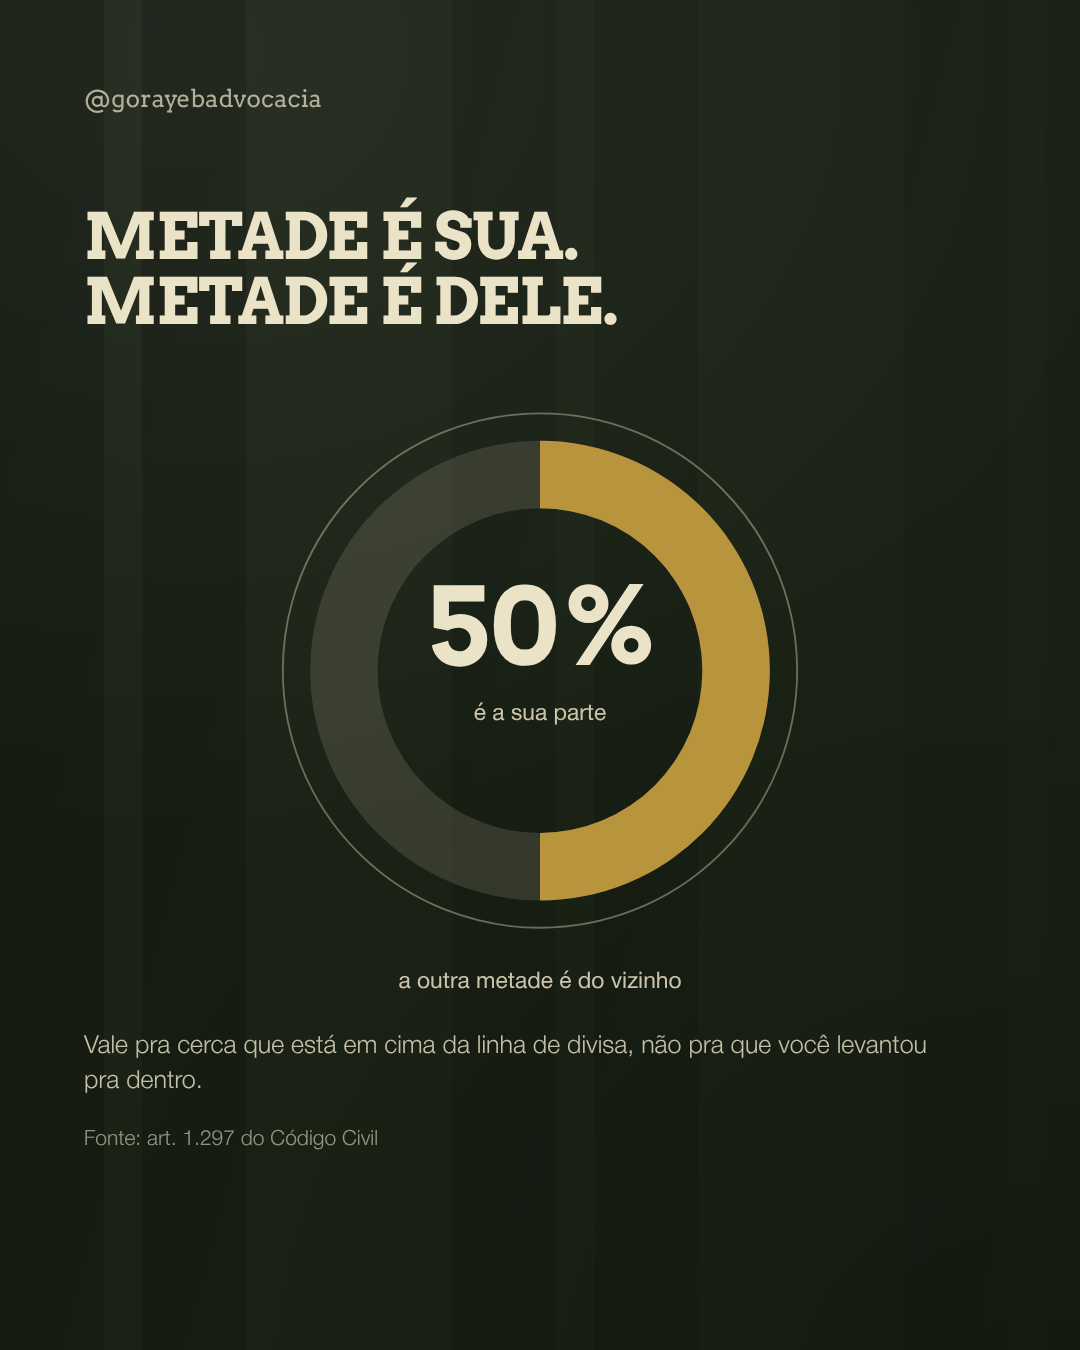
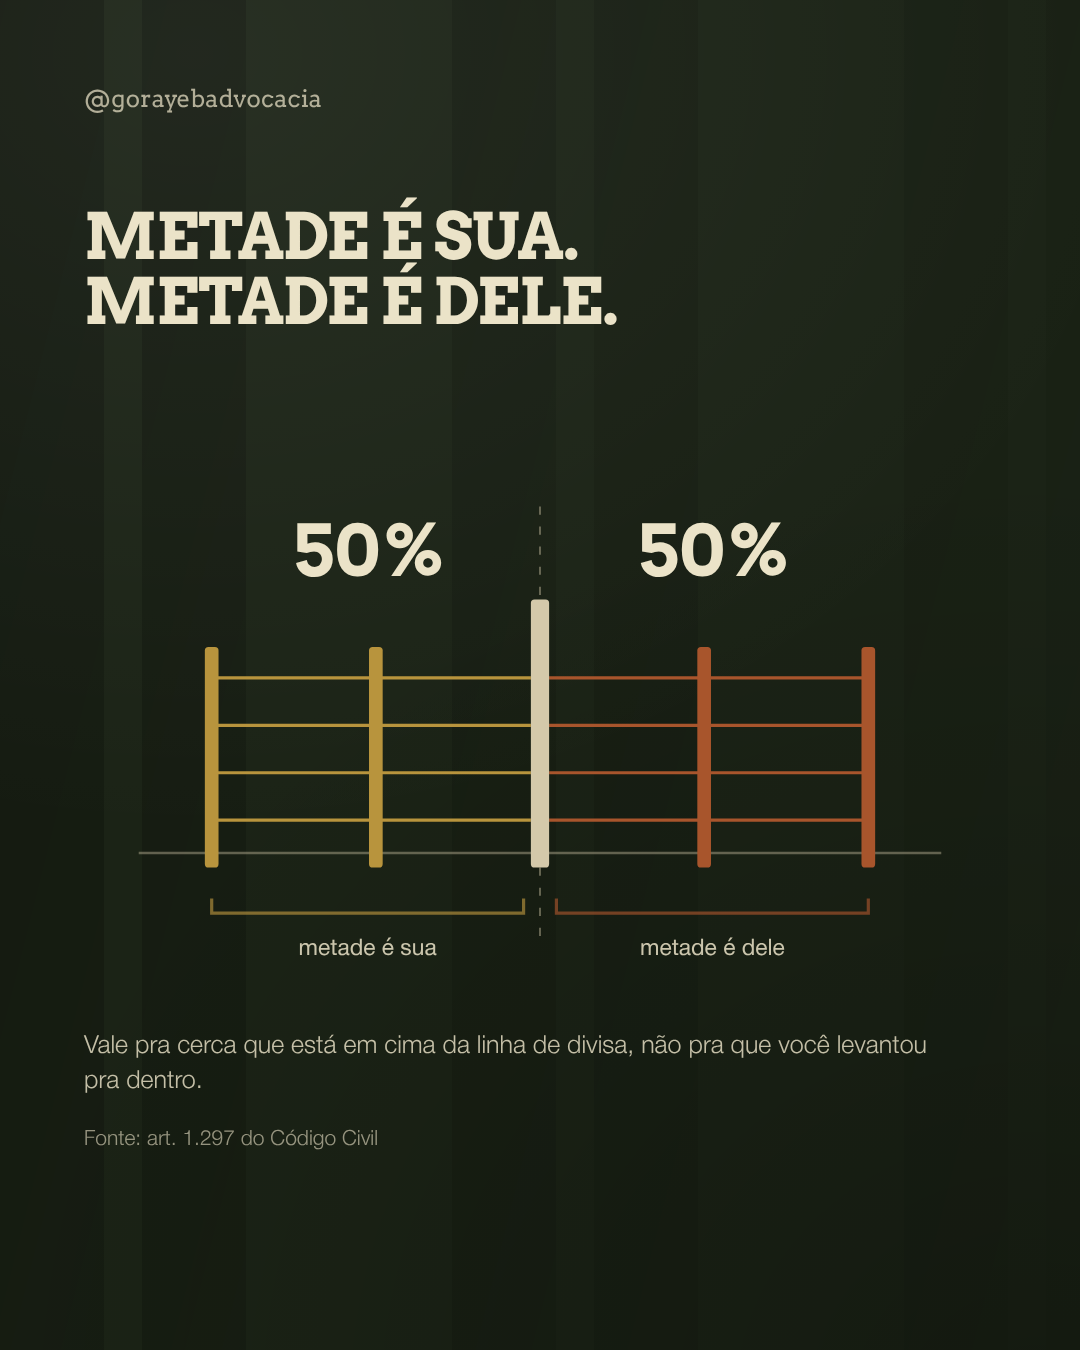
Gorayeb: formato 01 e carrossel do Dia do Pecuarista
Fecha a revisão do carrossel da cerca divisória e transforma as decisões
dela no formato padrão.

- formato-01.md: o padrão de conteúdo. Logo só na capa e no último slide,
  assinatura "Do agro, pelo agro." fora de tudo (arte e legenda), tudo
  alinhado à esquerda, capa no grid de quatro faixas, figura obrigatória,
  número sem fonte não entra e data que diverge entre fontes fica de fora.
- figuras.mjs: nova figura `cerca`, uma cerca de arame cortada ao meio pelo
  marco da divisa, no lugar do donut quando a pauta tem a coisa concreta.
  O rótulo dos pontos do mapa virou legenda embaixo, que dentro do desenho
  estourava a margem da peça.
- render.mjs: o @gorayebadvocacia passa a abrir a capa, no topo esquerdo, e
  as fotos de `meiaFoto` e `corpo-foto` aceitam `foco` pra não cortar rosto.
- base.css: rótulos de figura escurecem em fundo off-white e branco.
- Novo carrossel: Dia do Pecuarista, recorte nacional, com o Herd Book de
  1919 em Uberaba, os nomes que a ABCZ reconhece, o mapa do rebanho pelo
  IBGE e a exportação pela ABIEC.

Claude-Session: https://claude.ai/code/session_01PNm9HeejNLCDTQ5J6fF2k9

Changed region(s): [[0.2444, 0.3111, 0.7639, 0.7467], [0.7944, 0.4667, 0.825, 0.6533], [0.1833, 0.4667, 0.2139, 0.6533]]

diff --git a/docs/gorayeb/template/base.css b/docs/gorayeb/template/base.css
@@ -244,8 +244,10 @@
   font-family: "HelveticaNeue", Helvetica, Arial, sans-serif; font-weight: 400;
   fill: var(--creme); font-size: 25px; opacity: .85;
 }
-.bg-creme .rot-num, .bg-areia .rot-num { fill: var(--verde); }
-.bg-creme .rot-txt, .bg-areia .rot-txt { fill: var(--verde); }
+.bg-creme .rot-num, .bg-areia .rot-num,
+.bg-offwhite .rot-num, .bg-branco .rot-num { fill: var(--verde); }
+.bg-creme .rot-txt, .bg-areia .rot-txt,
+.bg-offwhite .rot-txt, .bg-branco .rot-txt { fill: var(--verde); }
 
 /* barras: marca fina, ponta arredondada só do lado do dado */
 .barra-trilho { fill: var(--dado-base); }
@@ -256,13 +258,24 @@
 .mapa-base { fill: var(--dado-base); stroke: var(--fio-fino); stroke-width: 1.5; }
 .mapa-destaque { fill: var(--dado-1); }
 .mapa-anel { fill: none; stroke: var(--fio-fino); stroke-width: 2; }
+/* legenda dos pontos do mapa, uma linha por destaque */
+.mapa-chaves { list-style: none; display: flex; flex-direction: column; gap: 16px; }
+.mapa-chaves li {
+  display: flex; align-items: center; gap: 18px;
+  font-family: "HelveticaNeue", Helvetica, Arial, sans-serif;
+  font-weight: 400; font-size: 29px;
+}
+.mapa-chaves .ponto {
+  width: 20px; height: 20px; border-radius: 50%;
+  background: var(--dado-1); flex: none;
+}
 
 /* números em diagonal sobre foto, no espírito da peça de referência */
 .diag { position: relative; flex: 1; display: flex; align-items: center; }
 .diag-item { display: flex; align-items: baseline; gap: 18px; }
 .diag-item .n {
   font-family: "Arvo", Georgia, serif; font-weight: 700;
-  font-size: 92px; line-height: .92;
+  font-size: 92px; line-height: .92; white-space: nowrap;
 }
 .diag-item .r {
   font-family: "HelveticaNeue", Helvetica, Arial, sans-serif;
@@ -378,7 +391,8 @@
   grid-template-rows: 1fr 1fr 1fr 1fr;
   align-items: center;
 }
-.capa-foto .faixa-vazia { grid-row: span 2; }
+.capa-foto .faixa-vazia { grid-row: span 2; align-self: start; }
+.capa-foto .arroba { margin-bottom: 0; opacity: .88; }
 .capa-foto .faixa-titulo { grid-row: 3; align-self: center; }
 .capa-foto .faixa-marca  { grid-row: 4; align-self: center; }
 .capa-foto .veu-capa {

diff --git a/docs/gorayeb/formato-01.md b/docs/gorayeb/formato-01.md
@@ -1,0 +1,88 @@
+# Formato 01 — carrossel Gorayeb
+
+O formato padrão. Quando o Victor pede **"tema X no formato 01"**, é isto aqui,
+sem precisar repetir nada.
+
+## A regra curta
+
+5 a 7 slides, 1080 × 1350. Abre em capa de foto no grid de quatro faixas, fecha
+em foto com a logo. No meio, pelo menos uma figura: gráfico, tabela, mapa ou
+número grande. Tudo alinhado à esquerda. Sem assinatura escrita, em lugar nenhum.
+
+## Decisões fechadas com o Victor
+
+Cada uma veio de um pedido dele na revisão. Não voltar atrás sem ele mandar.
+
+| Ponto | Regra |
+| --- | --- |
+| **Logo** | Só na **capa** e no **último slide**. Nunca no miolo. |
+| **Assinatura** | "Do agro, pelo agro." **não entra em lugar nenhum**: nem na arte, nem na legenda do post. |
+| **Alinhamento** | **Tudo à esquerda**, por padrão. Inclusive o fecho. O único centro que sobra é o número dentro do donut, que é composição do gráfico. |
+| **@gorayebadvocacia** | Topo, à esquerda, alinhado com o resto. Com folga de 46 px abaixo. |
+| **Marca d'água** | A chapa do `corpo-foto` fica em **cor sólida**. A marca ao fundo só entra se for pedida. |
+| **Listras** | Textura, não padrão. Escala grande, contraste baixo, esmaecendo na diagonal. Nunca em todo slide do carrossel. |
+| **Viúvas** | Palavra sozinha fechando linha **não passa**. O render costura sozinho; se ainda ficar feia, encurtar a frase. |
+| **Respiro** | Corpo em 34 px, entrelinha 1,58, medida de 19 caracteres. Nada espremido. |
+
+## A capa
+
+Grid de **quatro faixas horizontais** de 337 px:
+
+1. e 2. Foto limpa. A paisagem respira.
+3. Etiqueta de assunto, título e linha de apoio, centrados na faixa.
+4. Logo, dentro da sombra, em tamanho generoso.
+
+A sombra sobe até a metade da peça, então as duas faixas de baixo têm base
+escura e o texto nunca briga com o fundo.
+
+## O que entra no miolo
+
+Alternar. Nenhum fundo repete dentro do mesmo carrossel.
+
+- **Fundos**: verde, off-white, branco, areia, bordô, marrom, foto com véu.
+- **Texturas**: listras, marca d'água (opcional), ou nada.
+- **Figuras**: donut, barras, tabela, mapa, números e cerca. Pelo menos uma por
+  carrossel, que é o que diferencia o nosso do que já estava sendo publicado.
+  Quando a pauta tem uma coisa concreta (uma cerca, uma porteira, uma divisa),
+  desenhar a coisa vale mais que um gráfico genérico.
+
+## Linguagem
+
+A casa afirma seco, nega e corrige, espelha duas frases e fala com o produtor.
+**Nunca fala sobre o próprio post.** Fora: "entenda", "veja", "confira", "em uma
+imagem", "neste carrossel", "tudo o que você precisa saber". A regra inteira,
+com os exemplos levantados das peças publicadas, está no guia de conteúdo.
+
+## De quem é o assunto
+
+O padrão é **cenário nacional**: a pauta é o setor, não o escritório. Nada de
+foto da casa, da equipe ou da família na arte, a não ser que o Victor peça. O
+escritório aparece no fim, na logo e na chamada.
+
+## Foto
+
+1. **Banco da Gorayeb primeiro** quando a pauta é da casa. Escritório, equipe, Fernando, as aplicações da
+   marca. Publicam sem ressalva.
+2. **Pinterest só pro cenário de campo**, e com termo que diga Brasil:
+   *"fazenda brasileira cerrado mineiro"*, não *"fazenda cerca"*.
+3. Abrir em tamanho cheio e descartar **marca d'água** de banco ou assinatura de
+   fotógrafo, e qualquer coisa com **cara de IA**: madeira uniforme demais, gado
+   simétrico, telhado regular demais, luz sem direção. Retrato de stock sorrindo
+   pra câmera quase sempre é IA.
+4. Quando a foto tem rosto, conferir o corte com `foco` no JSON. O padrão corta
+   no centro e decapita gente em pé.
+
+## Número e data
+
+**Sem fonte não entra na arte.** O contrato exige que toda informação factual
+seja verificável. Dado de órgão oficial ou de entidade do setor, com a fonte
+escrita no slide.
+
+Data histórica que **diverge entre fontes não entra**. Fica de fora e, se for
+importante, vai avisado na entrega. Retrato de figura histórica também não: ou
+tem autorização do acervo, ou não vai.
+
+## Limites da OAB
+
+Informativo e educativo. Sem promessa de resultado, sem "melhor" ou "maior",
+sem honorário, sem caso de cliente. Quem aprova é o Fernando.

diff --git a/docs/gorayeb/guia-de-conteudo.md b/docs/gorayeb/guia-de-conteudo.md
@@ -15,7 +15,9 @@ na mesma linguagem, sem repetir o que já foi publicado.
 - Marca **F.T.G.** = iniciais do Fernando, e também Fidelidade, Transparência,
   Genialidade. Era a marca do gado da família antes de ser a do escritório.
   "Marcar é deixar nome" é o mito fundador que aparece em tudo.
-- Assinatura obrigatória de todo conteúdo: **"Do agro. Pelo agro."**
+- Assinatura que eles usavam em todo conteúdo: **"Do agro. Pelo agro."**
+  **Saiu do nosso formato por decisão do Victor**: não entra na arte nem na
+  legenda. Fica aqui só como registro do que já foi publicado.
 - Áreas que viram pauta: direito agrário, sucessão e holding rural, CAR e
   crédito rural, contratos (arrendamento, parceria, CPR), tributário (ITR,
   VTN), recuperação judicial do produtor, seguro rural, fraudes contra o
@@ -89,10 +91,11 @@ Regras de uso observadas:
 - **Corpo**: **Helvetica Neue** (Light para texto corrido, Bold para o que
   precisa pesar), em blocos curtos sobre foto. Em slides de dado (mapa,
   números) o corpo é a slab regular. Arquivos em `fontes/helvetica/`.
-- **Assinatura**: "Do agro, pelo agro." em slab regular pequeno. Fica no
-  rodapé (centro ou direita) ou no topo esquerdo (estáticos de julho).
-- **@gorayebadvocacia** em slab regular pequeno, topo centralizado nos slides
-  internos; rodapé esquerdo nos estáticos.
+- **Assinatura**: nas peças antigas, "Do agro, pelo agro." em slab regular
+  pequeno, no rodapé ou no topo esquerdo. **Não usamos mais.**
+- **@gorayebadvocacia** em slab regular pequeno. Eles centralizavam no topo;
+  a gente joga pra esquerda, alinhado com o resto, e agora aparece **também
+  no topo da capa**.
 
 ### Logo
 
@@ -133,9 +136,10 @@ Duas vozes, mesmo conteúdo:
 "tá", "Seu Roberto", "calma, lavrador". Frases curtas, uma por linha. Metáforas
 do campo para explicar direito ("a mesma lógica de quem cerca a propriedade e
 tranca a porteira: cuidar antes, pra não remediar depois"). Humor leve e
-afetivo, nunca piada com a lei. Fecha sempre com "Do agro. Pelo agro." e, nos
-carrosséis, um CTA de salvar/compartilhar ("Salva esse post e manda pra aquele
-amigo que tá penando com o CAR").
+afetivo, nunca piada com a lei. Nas legendas deles fecha com "Do agro. Pelo
+agro." — **a nossa não leva isso**, fecha na frase da peça e, nos carrosséis,
+num CTA de salvar/compartilhar ("Salva esse post e manda pra aquele amigo que
+tá penando com o CAR").
 
 **LinkedIn (arquivo `legendas_gorayeb_linkedin_tom_tecnico.txt`)**: versão
 técnica do mesmo post. Cita artigo de lei, resolução e número. Sem gíria,

diff --git a/docs/gorayeb/README.md b/docs/gorayeb/README.md
@@ -81,6 +81,7 @@ Nenhum fundo é padrão em todo slide: a graça é variar dentro do carrossel.
 | `borda` | `dourada`, `bordo` |
 | `foto` | caminho do arquivo, com `veu` em `verde`, `marrom` ou `topo` |
 | `meiaFoto` | `true` põe a foto na metade de cima e o texto na de baixo |
+| `foco` | `object-position` da foto em `meiaFoto` e `corpo-foto`, p. ex. `center 14%`, pra não cortar rosto |
 
 ### Figuras (`"tipo": "figura"`)
 
@@ -91,6 +92,7 @@ Nenhum fundo é padrão em todo slide: a graça é variar dentro do carrossel.
 | `mapa` | `mapa` (`brasil`), `pontos` de `{lon, lat, raio, rotulo}` | situar no território |
 | `numeros` | `itens` de `{numero, rotulo}` | até 4 cifras em diagonal |
 | `tabela` | `colunas` (2) e `linhas` de `{criterio, a, b}` | comparar dois cenários |
+| `cerca` | `rotuloA`, `rotuloB` | meio a meio de uma divisa, desenhado como cerca |
 
 Todas aceitam `legenda` (a frase que explica), `fonte` (de onde veio o número) e
 `alt` (a descrição pra quem usa leitor de tela).
